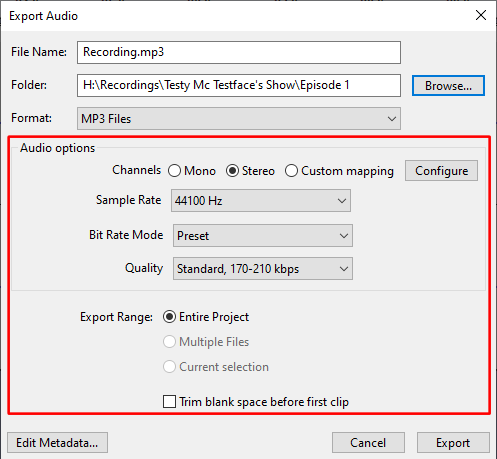
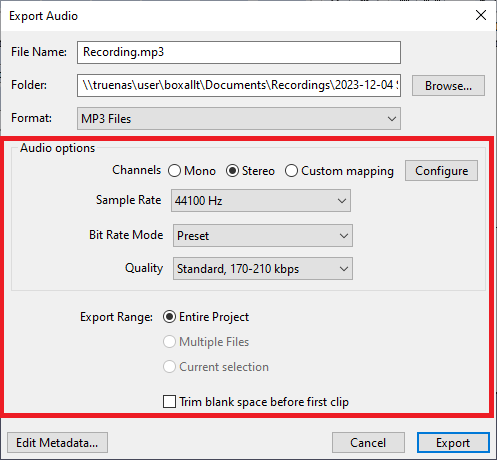
update saving instructions and make images smaller

diff --git a/docs/studio-2/recording-an-episode.md b/docs/studio-2/recording-an-episode.md
@@ -21,14 +21,16 @@ A guide on how to record an episode using the equipment in Studio 2
 2. Turn on the monitor, using the plug shown below  
 ![Studio 2 desk with plug for monitor highlighted](../../assets/studio-2/recording-an-episode/studio-2.jpg)
 3. Log in to the computer with your PureFM credentials
-4. Open file explorer and create a folder inside the "Recordings" folder in the home drive, `H:\Recordings`, with the name of your show, if it does not already exist  
-![File explorer window showing the home share, with a folder for "Testy Mc Testface's Show"](../../assets/studio-2/recording-an-episode/file-explorer-recording-folder.png)
-5. Within your show's folder, create another folder with the episode number, date or another useful name  
-![File explorer window showing the Episode 1 folder of the show](../../assets/studio-2/recording-an-episode/file-explorer-episode-folder.png)
-6. Position the microphones so they are roughly a closed fists length away from your mouth and in a comfortable position for you to sit
-7. Move the `PRES` (Presenter Microphone), `GUES` (Guest Microphone) and `MAIN` faders on the desk so they are within the shaded range, next to the U, as shown below  
+4. Open file explorer and open your `U:\` drive, the name of it should be the same as your username.
+![File Explorer with U drive highlighted](../../assets/studio-2/recording-an-episode/file-explorer.png)
+5. Within your `U` drive, open the Documents folder and make a folder in there called `Recordings`, if it doesn't already exist.
+![Recording folder in U drive](../../assets/studio-2/recording-an-episode/file-explorer-recordings-folder.png)
+1. Within your Recordings folder, create another folder with the episode number, date or another useful name  
+![File explorer window showing the Episode 1 folder of the show](../../assets/studio-2/recording-an-episode/file-explorer-show-folder.png)
+1. Position the microphones so they are roughly a closed fists length away from your mouth and in a comfortable position for you to sit
+2. Move the `PRES` (Presenter Microphone), `GUES` (Guest Microphone) and `MAIN` faders on the desk so they are within the shaded range, next to the U, as shown below  
 ![Faders moved to the shaded range](../../assets/studio-2/recording-an-episode/desk-faders.jpg)
-8. Put the headphones on, and speak into the microphone. If the `MAIN METERS` LEDs reach into the yellow or red range, move the presenter fader down slightly. Repeat this process with the guest microphone and fader
+1. Put the headphones on, and speak into the microphone. If the `MAIN METERS` LEDs reach into the yellow or red range, move the presenter fader down slightly. Repeat this process with the guest microphone and fader
 
 {: .note}
 If the volume of the live monitor in the headphones is too loud, reduce the volume of the `PHONES` dial, **not** the microphone faders
@@ -85,7 +87,7 @@ The files you've saved so far should be in the `.aup3` format, which can only be
 1. In the "File" menu in Audacity, open the "Export Audio" window  
 ![Audacity with file menu open](../../assets/studio-2/recording-an-episode/audacity-export-button.png)
 2. Set the Folder to the episode folder you created earlier
-3. Change the file name to whatever you want, as long as it ends with `.mp3`  
+3. Change the file name to whatever you want, as long as it ends with `.mp3`. The filepath to the folder will look a little strange, as long as it starts with `\\truenas\user\YOUR_USER_NAME\` you'll be fine  
 ![Audacity export window](../../assets/studio-2/recording-an-episode/audacity-export-screen.png)
 4. Make sure the other settings match the image below, and then press the "Export" button in the bottom-right  
 ![Audacity export window](../../assets/studio-2/recording-an-episode/audacity-export-screen-settings.png)
